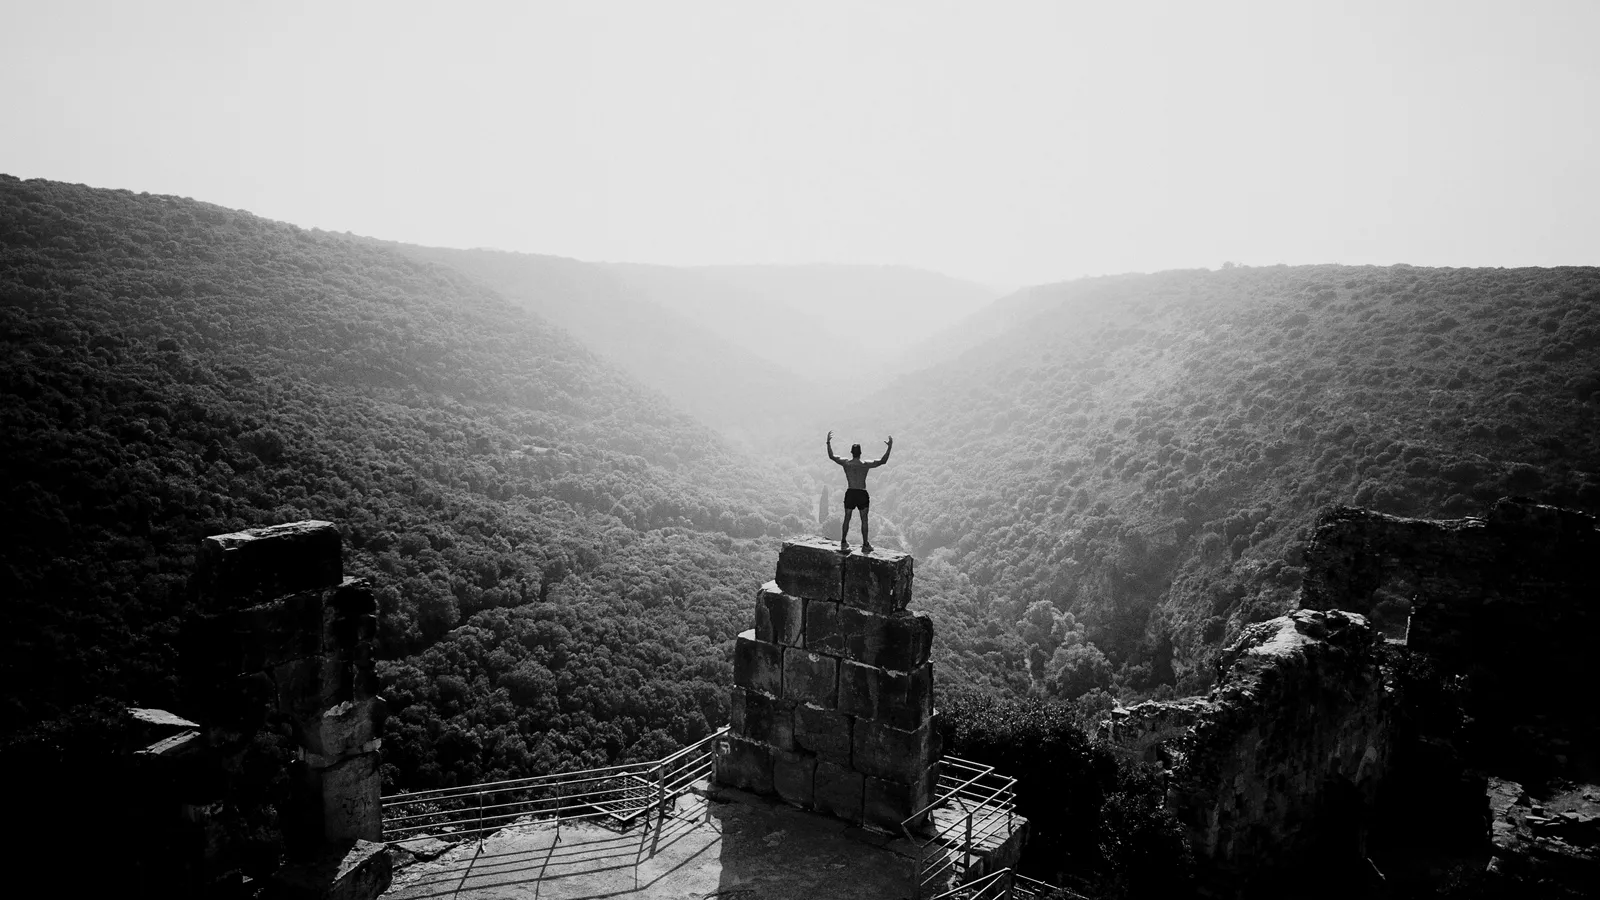
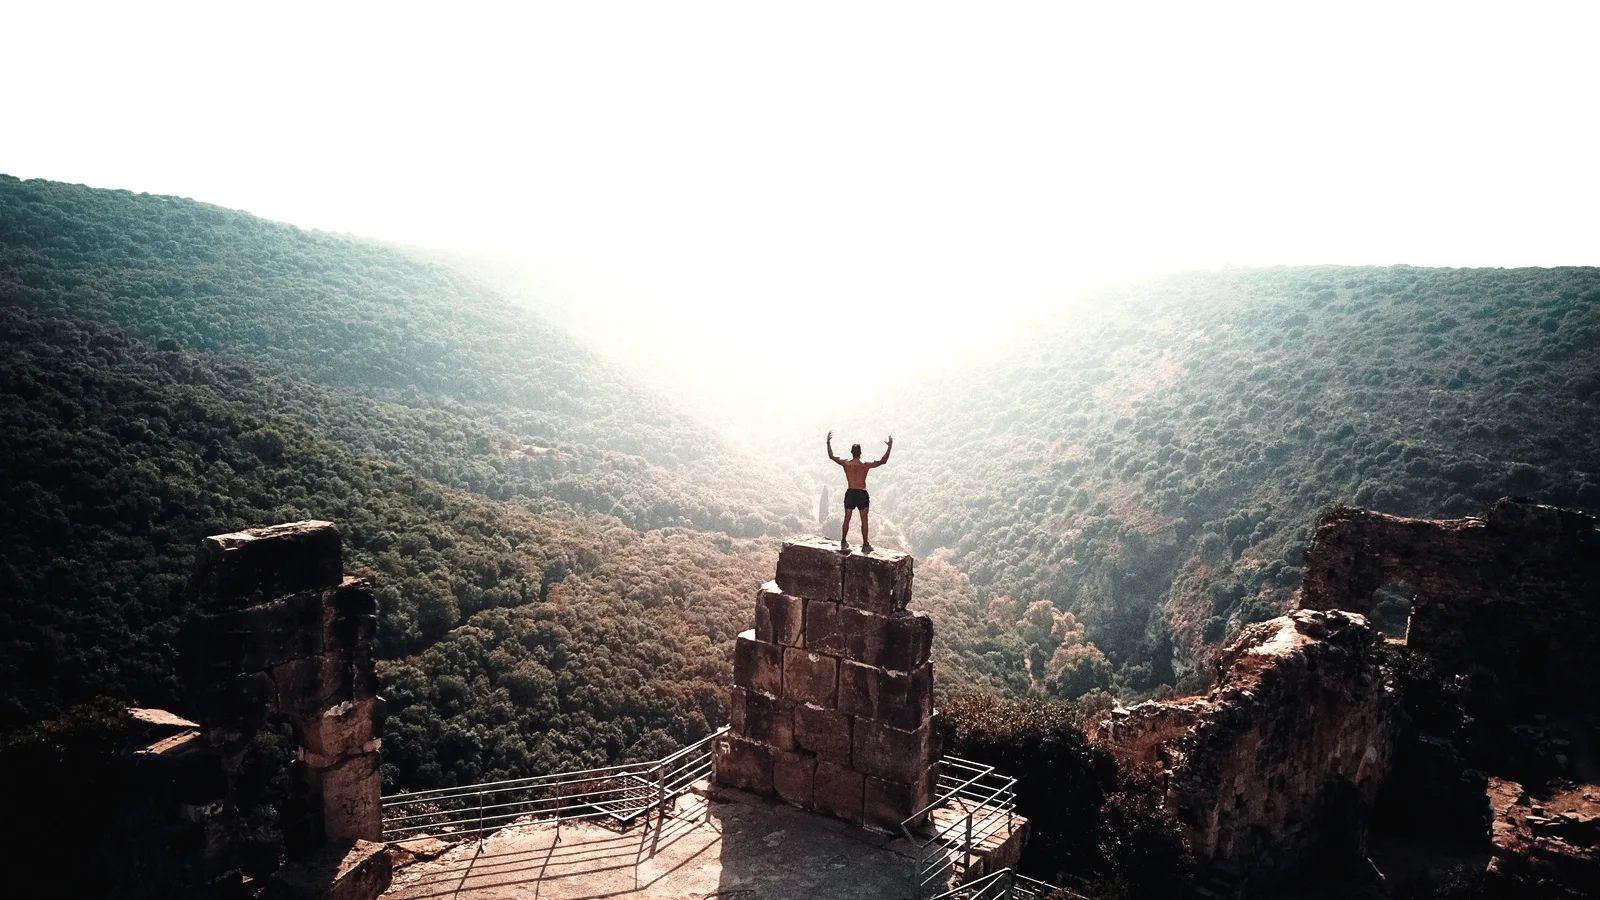
Add files via upload

diff --git a/wrist-of-champions.html b/wrist-of-champions.html
@@ -39,13 +39,13 @@ nav{position:fixed;top:0;left:0;right:0;z-index:1000;display:flex;align-items:ce
 .nav-back:hover{color:var(--gold)}
 /* MASTHEAD */
 .hub-hero{position:relative;min-height:82vh;display:flex;flex-direction:column;align-items:center;justify-content:center;text-align:center;padding:140px 24px 80px;overflow:hidden;
-  background:linear-gradient(180deg,rgba(10,10,9,.55),rgba(10,10,9,.4) 40%,rgba(10,10,9,.82) 80%,var(--ink)),radial-gradient(ellipse 90% 70% at 50% 30%,rgba(201,168,76,.10),transparent 60%),url('champions-hero-1600.webp') center 42%/cover no-repeat}
+  background:linear-gradient(180deg,rgba(8,8,7,.58) 0%,rgba(8,8,7,.17) 28%,rgba(8,8,7,.2) 64%,rgba(8,8,7,.84) 90%,var(--ink)),radial-gradient(ellipse 90% 70% at 50% 30%,rgba(201,168,76,.08),transparent 60%),url('champions-hero-1600.webp') center 80%/cover no-repeat}
 .hub-seal{display:block;margin:50px auto 0;width:clamp(86px,9vw,116px);height:auto;opacity:.95;filter:drop-shadow(0 3px 16px rgba(0,0,0,.6))}
 /* frosted readability lozenge behind the centered hero copy — auto-sized by a radial mask, feathered into the photo */
-.hub-hero::before{content:'';position:absolute;inset:0;z-index:0;pointer-events:none;background:rgba(6,8,13,.5);-webkit-backdrop-filter:blur(6px) saturate(1.03);backdrop-filter:blur(6px) saturate(1.03);-webkit-mask-image:radial-gradient(ellipse 58% 46% at 50% 50%,#000 52%,transparent 100%);mask-image:radial-gradient(ellipse 58% 46% at 50% 50%,#000 52%,transparent 100%)}
+.hub-hero::before{content:'';position:absolute;inset:0;z-index:0;pointer-events:none;background:rgba(6,8,13,.4);-webkit-backdrop-filter:blur(2px) saturate(1.03);backdrop-filter:blur(2px) saturate(1.03);-webkit-mask-image:radial-gradient(ellipse 66% 36% at 50% 40%,#000 45%,transparent 100%);mask-image:radial-gradient(ellipse 66% 36% at 50% 40%,#000 45%,transparent 100%)}
 .hub-hero>*{position:relative;z-index:1}
-.hub-eyebrow{font-size:10px;font-weight:500;letter-spacing:.42em;text-transform:uppercase;color:var(--gold-light);margin-bottom:24px;text-shadow:0 2px 14px rgba(0,0,0,.7)}
-.hub-h1{font-family:'Cinzel',serif;font-weight:900;font-size:clamp(48px,9.6vw,118px);line-height:.92;letter-spacing:.04em;color:var(--white);text-shadow:0 4px 40px rgba(0,0,0,.6)}
+.hub-eyebrow{font-size:10px;font-weight:500;letter-spacing:.42em;text-transform:uppercase;color:var(--gold-light);margin-bottom:24px;text-shadow:0 1px 3px rgba(0,0,0,.98),0 2px 14px rgba(0,0,0,.85)}
+.hub-h1{font-family:'Cinzel',serif;font-weight:900;font-size:clamp(48px,9.6vw,118px);line-height:.92;letter-spacing:.04em;color:var(--white);text-shadow:0 2px 10px rgba(0,0,0,.72),0 4px 42px rgba(0,0,0,.55)}
 .hub-headline{font-family:'Cormorant Garamond',serif;font-style:italic;font-size:clamp(19px,2.6vw,30px);line-height:1.5;color:var(--text);max-width:760px;margin:26px auto 0;text-shadow:0 2px 16px rgba(0,0,0,.75)}
 .hub-rule{width:60px;height:1px;background:var(--gold);opacity:.7;margin:30px auto 0}
 .hub-sub{font-size:10px;letter-spacing:.34em;text-transform:uppercase;color:var(--dim);margin-top:18px}
@@ -106,7 +106,7 @@ footer p{font-size:10px;letter-spacing:.12em;color:var(--dim)}
 @media(prefers-reduced-motion:reduce){.rev{opacity:1!important;transform:none!important}.reel-track{animation:none!important}.reel-grain{animation:none!important;opacity:.05}.reel{overflow-x:auto;-webkit-mask-image:none;mask-image:none}.reel-arrow{display:flex}}
 @media(max-width:820px){
   nav{padding:13px 18px}.brand{font-size:11px}
-  .hub-hero{min-height:72vh;padding:120px 20px 64px;background:linear-gradient(180deg,rgba(10,10,9,.55),rgba(10,10,9,.4) 40%,rgba(10,10,9,.82) 80%,var(--ink)),radial-gradient(ellipse 90% 70% at 50% 30%,rgba(201,168,76,.10),transparent 60%),url('champions-hero-960.webp') center 42%/cover no-repeat}
+  .hub-hero{min-height:72vh;padding:120px 20px 64px;background:linear-gradient(180deg,rgba(8,8,7,.58) 0%,rgba(8,8,7,.17) 28%,rgba(8,8,7,.2) 64%,rgba(8,8,7,.84) 90%,var(--ink)),radial-gradient(ellipse 90% 70% at 50% 30%,rgba(201,168,76,.08),transparent 60%),url('champions-hero-960.webp') center 80%/cover no-repeat}
   .hub-h1{font-size:clamp(31px,9.5vw,62px);letter-spacing:.02em}
   .guides{padding:60px 20px 20px}
   .reel{margin:36px 0;margin-left:-50vw}
